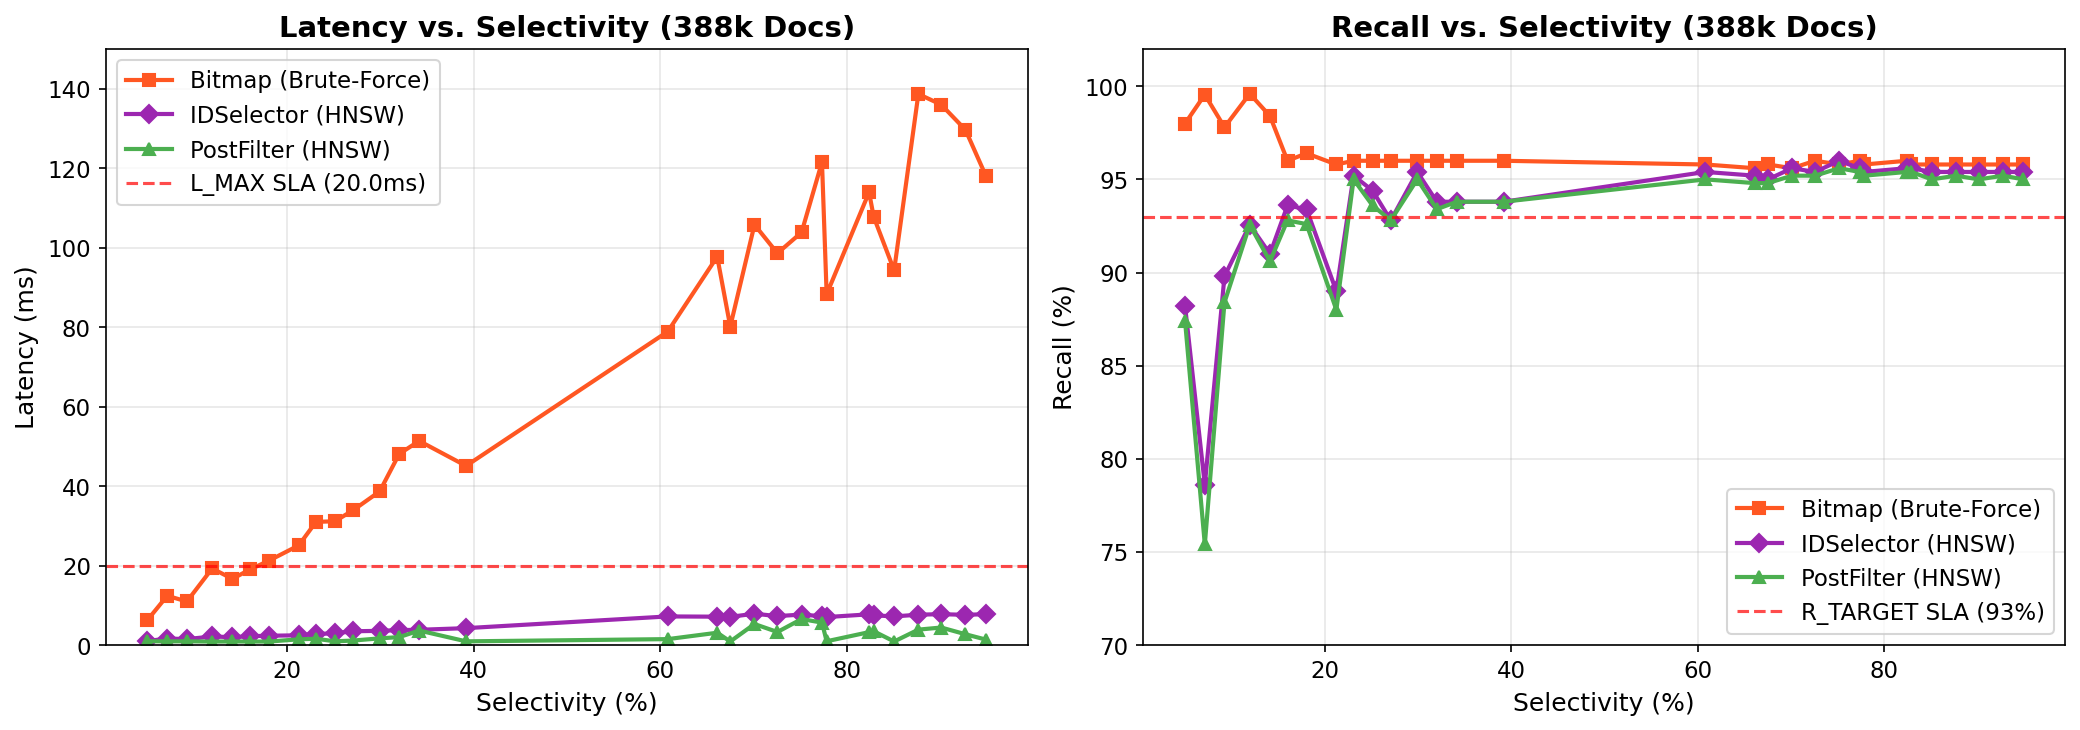
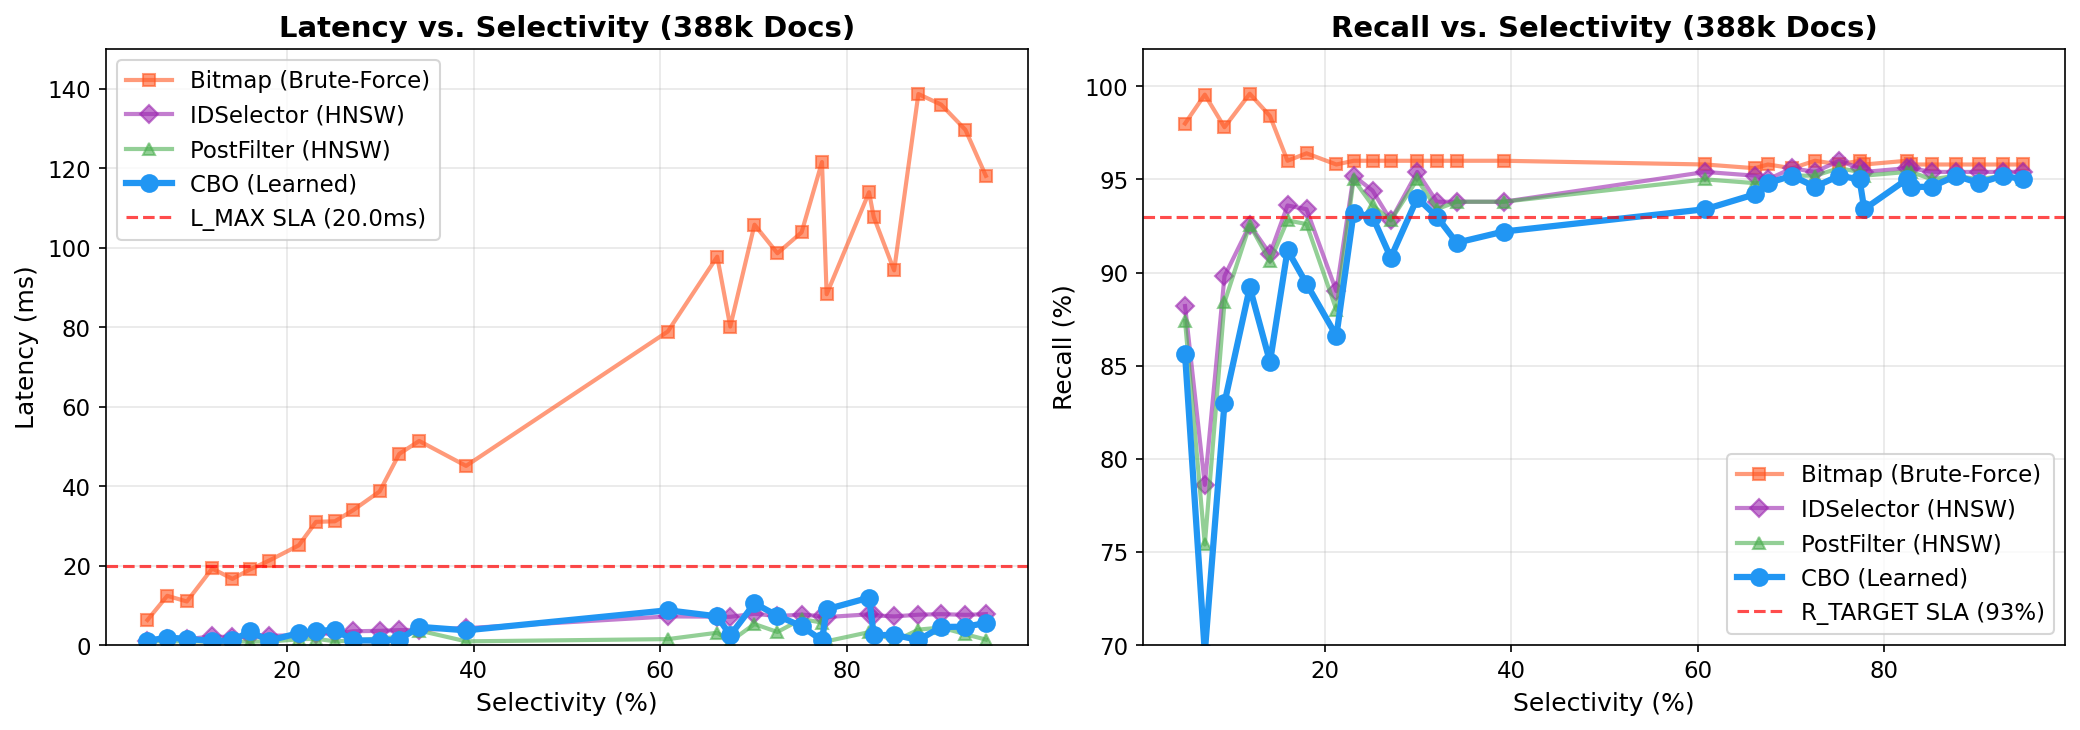
docs: Add CBO line to selectivity summary plot

diff --git a/plot_selectivity.py b/plot_selectivity.py
@@ -10,14 +10,34 @@ import matplotlib.pyplot as plt
 from pathlib import Path
 import config
 
+def get_latest_incremental_dir() -> Path:
+    dirs = [d for d in config.RESULTS_DIR.iterdir() if d.is_dir() and d.name.startswith("incremental_")]
+    if not dirs:
+        return None
+    # Sort by name, which includes timestamp, so the last one is the latest
+    return sorted(dirs)[-1]
+
 def generate_selectivity_plots():
     csv_path = config.RESULTS_DIR / "selectivity_analysis" / "selectivity_metrics.csv"
     if not csv_path.exists():
         print(f"Error: {csv_path} not found.")
         return
 
-    df = pd.read_csv(csv_path)
-    df = df.sort_values(by="selectivity_pct")
+    df_base = pd.read_csv(csv_path)
+    df_base = df_base.sort_values(by="selectivity_pct")
+
+    # Load CBO data from the latest incremental run (Phase 4, final epoch)
+    inc_dir = get_latest_incremental_dir()
+    df_cbo_agg = None
+    if inc_dir:
+        query_details_path = inc_dir / "query_details.csv"
+        if query_details_path.exists():
+            df_q = pd.read_csv(query_details_path)
+            # Filter for Phase 4, Epoch 9 (final epoch)
+            df_q = df_q[(df_q["phase"] == 4) & (df_q["epoch"] == 9)]
+            df_cbo_agg = df_q.groupby("selectivity")[["latency_ms", "recall"]].mean().reset_index()
+            df_cbo_agg["selectivity_pct"] = df_cbo_agg["selectivity"] * 100
+            df_cbo_agg = df_cbo_agg.sort_values(by="selectivity_pct")
 
     # Plot settings
     plt.rcParams.update({
@@ -33,15 +53,19 @@ def generate_selectivity_plots():
         "pf": "#4CAF50",    # Green
         "idsel": "#9C27B0", # Purple
         "bf": "#FF5722",    # Deep Orange
+        "cbo": "#2196F3",   # Blue
     }
 
     fig, (ax1, ax2) = plt.subplots(1, 2, figsize=(14, 5))
 
     # --- Plot 1: Latency vs Selectivity ---
-    ax1.plot(df["selectivity_pct"], df["bitmap_bf_latency_ms"], marker='s', color=colors["bf"], linewidth=2, label="Bitmap (Brute-Force)")
-    ax1.plot(df["selectivity_pct"], df["idsel_latency_ms"], marker='D', color=colors["idsel"], linewidth=2, label="IDSelector (HNSW)")
-    ax1.plot(df["selectivity_pct"], df["pf_latency_ms"], marker='^', color=colors["pf"], linewidth=2, label="PostFilter (HNSW)")
+    ax1.plot(df_base["selectivity_pct"], df_base["bitmap_bf_latency_ms"], marker='s', color=colors["bf"], linewidth=2, alpha=0.6, label="Bitmap (Brute-Force)")
+    ax1.plot(df_base["selectivity_pct"], df_base["idsel_latency_ms"], marker='D', color=colors["idsel"], linewidth=2, alpha=0.6, label="IDSelector (HNSW)")
+    ax1.plot(df_base["selectivity_pct"], df_base["pf_latency_ms"], marker='^', color=colors["pf"], linewidth=2, alpha=0.6, label="PostFilter (HNSW)")
     
+    if df_cbo_agg is not None:
+        ax1.plot(df_cbo_agg["selectivity_pct"], df_cbo_agg["latency_ms"], marker='o', color=colors["cbo"], linewidth=3, markersize=8, label="CBO (Learned)")
+
     # Highlight the L_MAX SLA (20ms)
     ax1.axhline(config.CBO_L_MAX, color="red", linestyle="--", linewidth=1.5, alpha=0.7, label=f"L_MAX SLA ({config.CBO_L_MAX}ms)")
 
@@ -52,9 +76,12 @@ def generate_selectivity_plots():
     ax1.legend()
 
     # --- Plot 2: Recall vs Selectivity ---
-    ax2.plot(df["selectivity_pct"], df["bitmap_bf_recall"] * 100, marker='s', color=colors["bf"], linewidth=2, label="Bitmap (Brute-Force)")
-    ax2.plot(df["selectivity_pct"], df["idsel_recall"] * 100, marker='D', color=colors["idsel"], linewidth=2, label="IDSelector (HNSW)")
-    ax2.plot(df["selectivity_pct"], df["pf_recall"] * 100, marker='^', color=colors["pf"], linewidth=2, label="PostFilter (HNSW)")
+    ax2.plot(df_base["selectivity_pct"], df_base["bitmap_bf_recall"] * 100, marker='s', color=colors["bf"], linewidth=2, alpha=0.6, label="Bitmap (Brute-Force)")
+    ax2.plot(df_base["selectivity_pct"], df_base["idsel_recall"] * 100, marker='D', color=colors["idsel"], linewidth=2, alpha=0.6, label="IDSelector (HNSW)")
+    ax2.plot(df_base["selectivity_pct"], df_base["pf_recall"] * 100, marker='^', color=colors["pf"], linewidth=2, alpha=0.6, label="PostFilter (HNSW)")
+
+    if df_cbo_agg is not None:
+        ax2.plot(df_cbo_agg["selectivity_pct"], df_cbo_agg["recall"] * 100, marker='o', color=colors["cbo"], linewidth=3, markersize=8, label="CBO (Learned)")
 
     # Highlight the R_TARGET SLA (90%)
     ax2.axhline(config.CBO_R_TARGET * 100, color="red", linestyle="--", linewidth=1.5, alpha=0.7, label=f"R_TARGET SLA ({int(config.CBO_R_TARGET*100)}%)")
